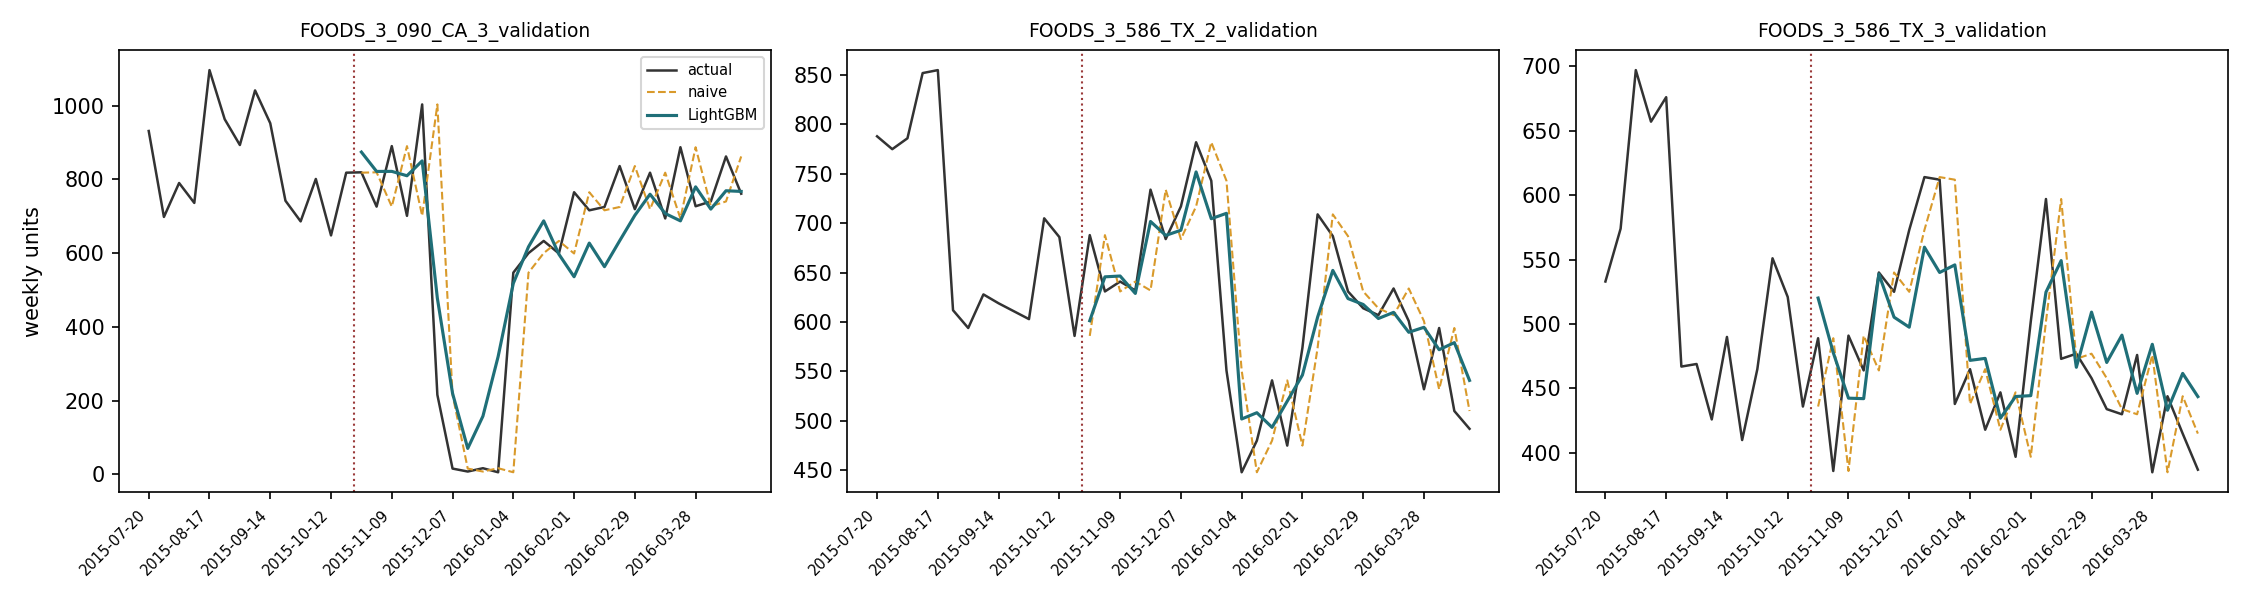
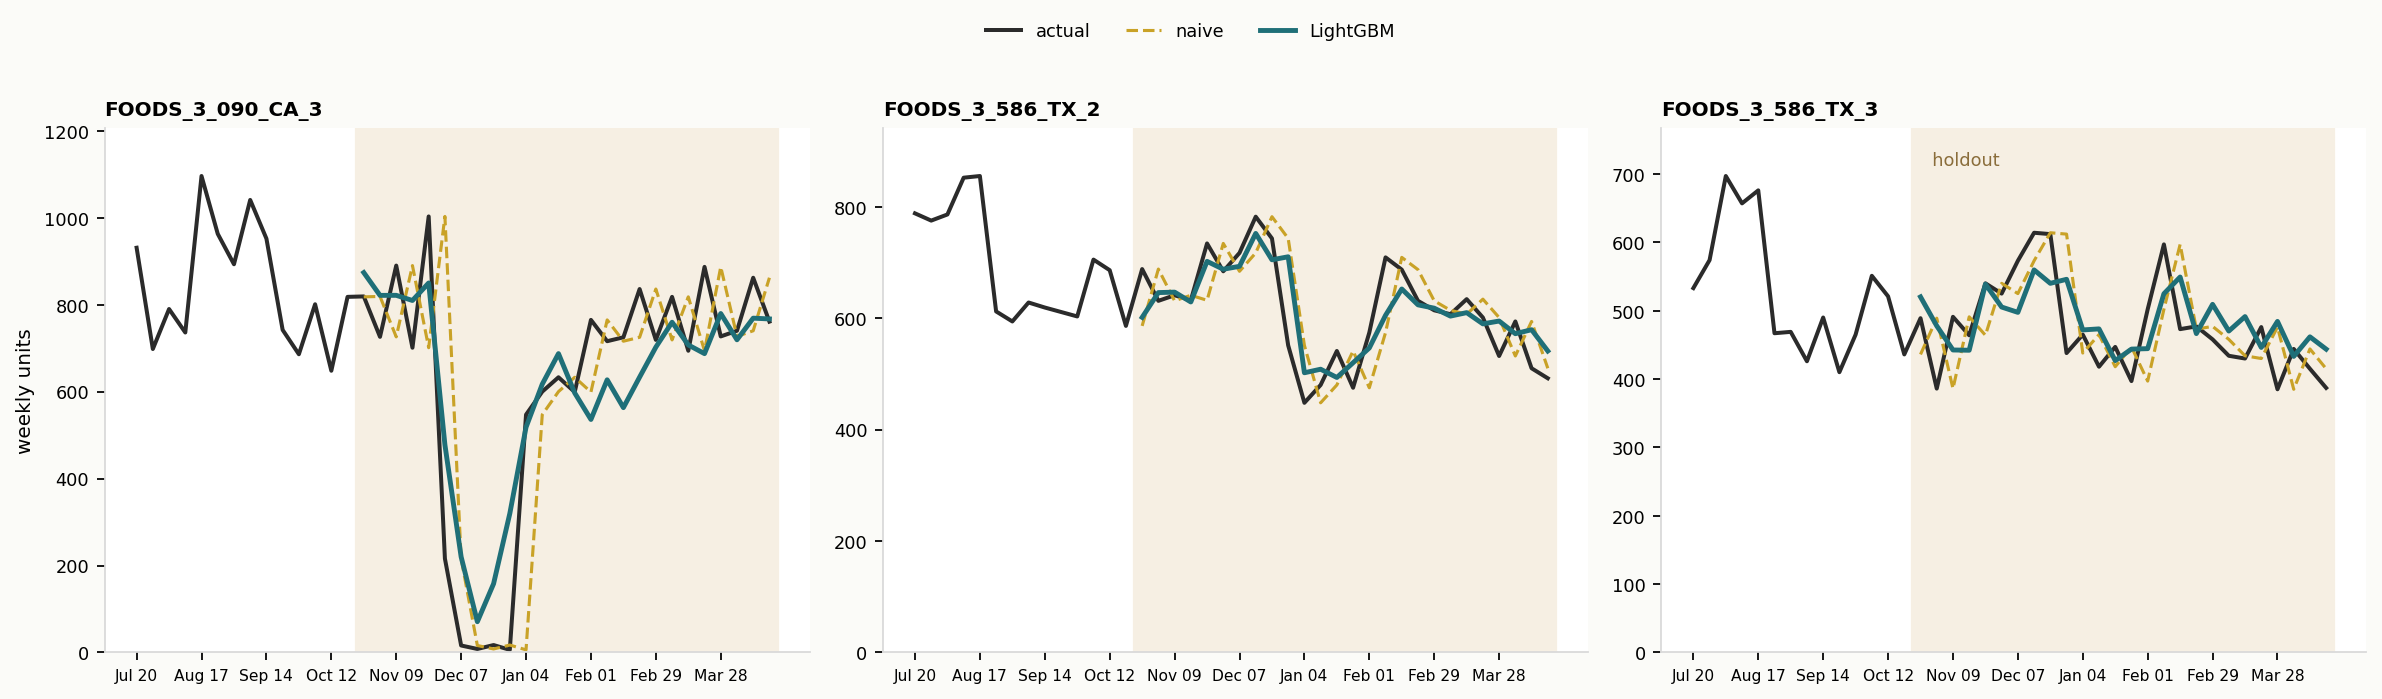
style: 把三张图重新排了一下，读起来顺一点

diff --git a/scripts/run_analysis.py b/scripts/run_analysis.py
@@ -84,30 +84,73 @@ def train_model(train: pd.DataFrame, features: list[str], direct: bool = False) 
     return model
 
 
+INK = "#2b2b2b"
+TEAL = "#1f6f78"
+AMBER = "#c9a227"
+RED = "#b23a48"
+MUTED = "#9aa6ad"
+GRID = "#e8e8e8"
+
+
+def _style() -> None:
+    import matplotlib.pyplot as plt
+
+    plt.rcParams.update(
+        {
+            "figure.facecolor": "#fbfbf8",
+            "axes.facecolor": "#ffffff",
+            "axes.edgecolor": "#d9d9d9",
+            "axes.grid": True,
+            "grid.color": GRID,
+            "grid.linewidth": 0.8,
+            "font.family": "DejaVu Sans",
+            "axes.titlesize": 11,
+            "axes.titleweight": "bold",
+            "axes.labelsize": 9,
+            "xtick.labelsize": 8,
+            "ytick.labelsize": 8,
+            "legend.frameon": False,
+        }
+    )
+
+
 def plot_examples(preds: pd.DataFrame, weekly: pd.DataFrame, holdout_start, images: Path) -> None:
     import matplotlib
 
     matplotlib.use("Agg")
     import matplotlib.pyplot as plt
 
+    _style()
     top = preds.groupby("id", observed=True)["sales"].sum().sort_values(ascending=False).head(3).index
-    fig, axes = plt.subplots(1, 3, figsize=(15, 4.0))
-    for ax, series in zip(axes, top):
+    fig, axes = plt.subplots(1, 3, figsize=(15, 4.3))
+    for idx, (ax, series) in enumerate(zip(axes, top)):
         history = weekly[weekly["id"] == series].sort_values("week").tail(40)
         forecast = preds[preds["id"] == series].sort_values("week")
-        history_x = history["week"].dt.start_time.dt.strftime("%Y-%m-%d")
-        forecast_x = forecast["week"].dt.start_time.dt.strftime("%Y-%m-%d")
-        ax.plot(history_x, history["sales"], color="#333", linewidth=1.2, label="actual")
-        ax.plot(forecast_x, forecast["naive"], color="#d99a2b", linestyle="--", linewidth=1, label="naive")
-        ax.plot(forecast_x, forecast["lgbm"], color="#1f6f78", linewidth=1.5, label="LightGBM")
-        ax.axvline(len(history) - len(forecast) - 0.5, color="#9b3b3b", linestyle=":", linewidth=1)
-        ax.set_title(series, fontsize=9)
-        ax.set_xticks(range(0, len(history), 4))
-        ax.set_xticklabels(history_x.iloc[::4], rotation=45, ha="right", fontsize=7)
-    axes[0].set_ylabel("weekly units")
-    axes[0].legend(fontsize=7)
-    fig.tight_layout()
-    fig.savefig(images / "forecast_examples.png", dpi=150)
+        n, h = len(history), len(forecast)
+        x = np.arange(n)
+        dates = history["week"].dt.start_time
+        ax.axvspan(n - h - 0.5, n - 0.5, color="#f6efe3", zorder=0)
+        ax.plot(x, history["sales"], color=INK, linewidth=1.8, label="actual")
+        ax.plot(x[-h:], forecast["naive"], color=AMBER, linewidth=1.4, linestyle="--", label="naive")
+        ax.plot(x[-h:], forecast["lgbm"], color=TEAL, linewidth=2.2, label="LightGBM")
+        ax.set_title(series.replace("_validation", ""), fontsize=9, loc="left")
+        step = 4
+        ax.set_xticks(x[::step])
+        ax.set_xticklabels(dates.dt.strftime("%b %d").iloc[::step], fontsize=7)
+        ax.set_ylim(0, max(history["sales"].max(), forecast[["naive", "lgbm"]].max().max()) * 1.1)
+        ax.grid(axis="y")
+        ax.grid(axis="x", visible=False)
+        for side in ("top", "right"):
+            ax.spines[side].set_visible(False)
+        if idx == 0:
+            ax.set_ylabel("weekly units")
+        if idx == 2:
+            ax.text(n - h, ax.get_ylim()[1] * 0.93, "  holdout", color="#8a6d3b", fontsize=8)
+
+    handles, labels = axes[0].get_legend_handles_labels()
+    fig.legend(handles, labels, loc="upper center", ncol=3, bbox_to_anchor=(0.5, 1.02), fontsize=8)
+    fig.tight_layout(rect=(0, 0, 1, 0.92))
+    fig.savefig(images / "forecast_examples.png", dpi=160, bbox_inches="tight")
     plt.close(fig)
 
 
@@ -117,22 +160,51 @@ def plot_models(models: pd.DataFrame, images: Path) -> None:
     matplotlib.use("Agg")
     import matplotlib.pyplot as plt
 
-    fig, axes = plt.subplots(1, 2, figsize=(12.0, 4.0))
+    _style()
+    order = models.sort_values("mae", ascending=True).reset_index(drop=True)
+    display = {"lgbm": "LightGBM", "naive": "naive", "ma4": "MA4", "seasonal": "seasonal"}
+    labels = [display.get(m, m) for m in order["model"]]
+    y = np.arange(len(order))
+    colors = [TEAL if m == "lgbm" else (AMBER if m == "seasonal" else "#a9b4ba") for m in order["model"]]
+    xmax = order["mae"].max()
+
+    fig, axes = plt.subplots(1, 2, figsize=(12.5, 4.0), gridspec_kw={"width_ratios": [1.25, 1]})
     ax = axes[0]
-    colors = {"naive": "#9b3b3b", "seasonal": "#d99a2b", "ma4": "#2f5d8c", "lgbm": "#1f6f78"}
-    ax.bar(models["model"], models["mae"], color=[colors.get(m, "#7c8a99") for m in models["model"]])
-    for i, row in enumerate(models.itertuples()):
-        ax.text(i, row.mae * 1.02, f"FVA {row.fva_vs_naive:+.1%}", ha="center", fontsize=8)
-    ax.set_ylabel("MAE (weekly units / series)")
-    ax.set_title("Same 26-week holdout: baselines vs LightGBM")
+    ax.barh(y, order["mae"], color=colors, height=0.58)
+    ax.set_yticks(y, labels)
+    ax.invert_yaxis()
+    for i, row in order.iterrows():
+        ax.text(row["mae"] + xmax * 0.015, i, f"{row['mae']:.1f}", va="center", fontsize=8, color=INK)
+        ax.text(row["mae"] + xmax * 0.13, i, f"FVA {row['fva_vs_naive']:+.1%}", va="center", fontsize=8, color="#5f6b70")
+    ax.set_xlim(0, xmax * 1.38)
+    ax.set_xlabel("MAE (weekly units, lower is better)")
+    ax.set_title("Same 26-week holdout", loc="left")
+    ax.grid(axis="x")
+    ax.grid(axis="y", visible=False)
+    for side in ("top", "right"):
+        ax.spines[side].set_visible(False)
 
     ax2 = axes[1]
-    ax2.bar(models["model"], models["bias"], color=[colors.get(m, "#7c8a99") for m in models["model"]])
-    ax2.axhline(0, color="#333", linewidth=0.8)
-    ax2.set_ylabel("mean error (actual − forecast)")
-    ax2.set_title("Bias")
+    ax2.axvline(0, color="#6b6b6b", linewidth=0.8)
+    for i, row in order.iterrows():
+        color = TEAL if row["model"] == "lgbm" else (AMBER if row["model"] == "seasonal" else MUTED)
+        ax2.hlines(i, 0, row["bias"], color=color, linewidth=2.5)
+        ax2.scatter(row["bias"], i, color=color, s=28, zorder=3)
+        offset = 0.18 if row["bias"] >= 0 else -0.18
+        ax2.text(row["bias"] + offset, i, f"{row['bias']:+.2f}", va="center", fontsize=8,
+                 ha="left" if row["bias"] >= 0 else "right", color="#5f6b70")
+    ax2.set_yticks(y, labels)
+    ax2.invert_yaxis()
+    ax2.set_xlim(-3.2, 7.2)
+    ax2.set_xlabel("mean error (actual − forecast)")
+    ax2.set_title("Bias", loc="left")
+    ax2.grid(axis="x")
+    ax2.grid(axis="y", visible=False)
+    for side in ("top", "right"):
+        ax2.spines[side].set_visible(False)
+
     fig.tight_layout()
-    fig.savefig(images / "model_comparison.png", dpi=150)
+    fig.savefig(images / "model_comparison.png", dpi=160, bbox_inches="tight")
     plt.close(fig)
 
 
@@ -141,21 +213,41 @@ def plot_newsvendor(frontier: pd.DataFrame, summary: dict, images: Path) -> None
 
     matplotlib.use("Agg")
     import matplotlib.pyplot as plt
+    from matplotlib.ticker import StrMethodFormatter
 
-    fig, ax = plt.subplots(figsize=(7.2, 4.2))
-    for model, label, color in [
-        (summary["baseline"], "best baseline", "#d99a2b"),
-        ("lgbm", "LightGBM", "#1f6f78"),
-    ]:
-        view = frontier[frontier["model"] == model]
-        ax.plot(view["service_level"] * 100, view["expected_cost"], marker="o", color=color, label=label)
-    ax.axvline(summary["critical_ratio"] * 100, color="#9b3b3b", linestyle="--", linewidth=1, label="critical ratio")
+    _style()
+    base = frontier[frontier["model"] == summary["baseline"]].sort_values("service_level")
+    lgbm = frontier[frontier["model"] == "lgbm"].sort_values("service_level")
+    x = base["service_level"] * 100
+
+    fig, ax = plt.subplots(figsize=(7.6, 4.4))
+    ax.fill_between(x, lgbm["expected_cost"], base["expected_cost"], color=TEAL, alpha=0.12, label="savings")
+    ax.plot(x, base["expected_cost"], color=AMBER, marker="o", markersize=4, linewidth=2, label="best baseline")
+    ax.plot(x, lgbm["expected_cost"], color=TEAL, marker="o", markersize=4, linewidth=2, label="LightGBM")
+    ax.axvline(summary["critical_ratio"] * 100, color=RED, linestyle="--", linewidth=1.2)
+    ax.text(summary["critical_ratio"] * 100 + 1.5, ax.get_ylim()[1] * 0.83,
+            f"CR = {summary['critical_ratio']:.2f}", color=RED, fontsize=8)
+    base_cost = summary["newsvendor"]["baseline_cost"]
+    lgbm_cost = summary["newsvendor"]["lgbm_cost"]
+    ax.annotate(
+        f"\\${base_cost:.2f} → \\${lgbm_cost:.2f}\n(−{summary['newsvendor']['cost_reduction']:.1%})",
+        xy=(50, base_cost),
+        xytext=(55, base_cost + 4),
+        fontsize=8,
+        color="#4a4a4a",
+        arrowprops={"arrowstyle": "-", "color": "#9aa6ad", "lw": 0.8},
+    )
     ax.set_xlabel("cycle service level (%)")
-    ax.set_ylabel("expected newsvendor cost (USD / series-week)")
-    ax.set_title("Cost-service frontier on the same holdout")
-    ax.legend(fontsize=8)
+    ax.set_ylabel("expected cost (USD / series-week)")
+    ax.set_title("Cost-service frontier on the same holdout", loc="left")
+    ax.yaxis.set_major_formatter(StrMethodFormatter("${x:,.0f}"))
+    ax.set_xticks([50, 60, 70, 80, 90, 95, 99])
+    ax.grid(axis="y")
+    for side in ("top", "right"):
+        ax.spines[side].set_visible(False)
+    ax.legend(loc="upper left", fontsize=8)
     fig.tight_layout()
-    fig.savefig(images / "newsvendor.png", dpi=150)
+    fig.savefig(images / "newsvendor.png", dpi=160, bbox_inches="tight")
     plt.close(fig)
 
 
